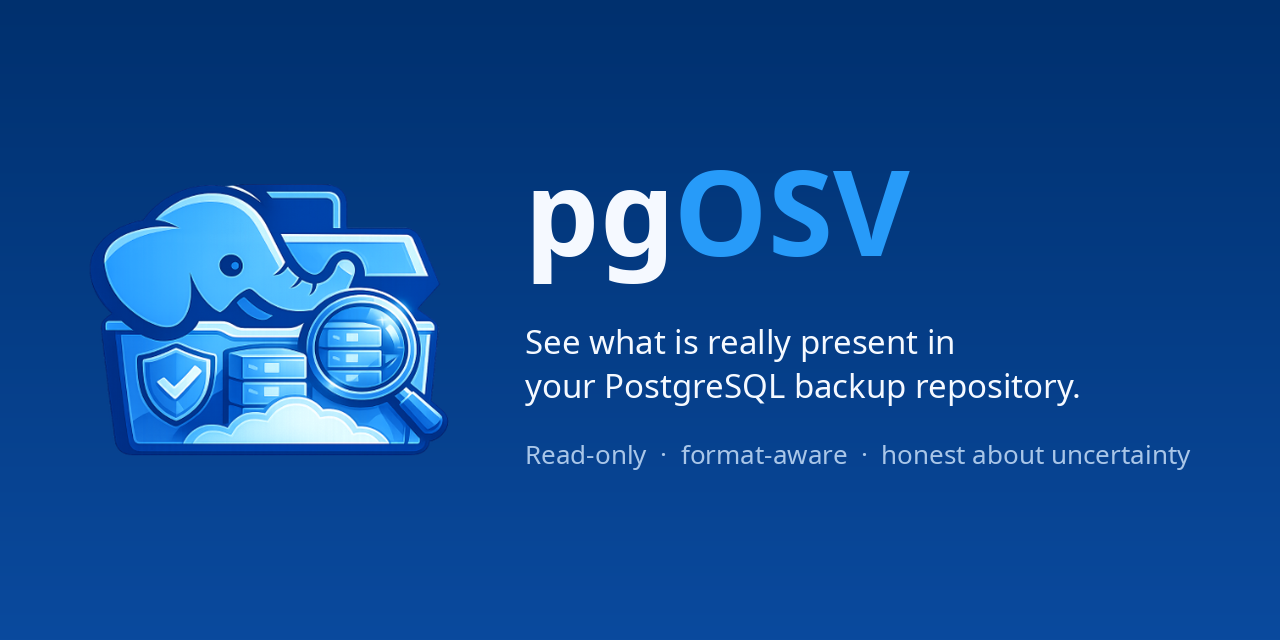
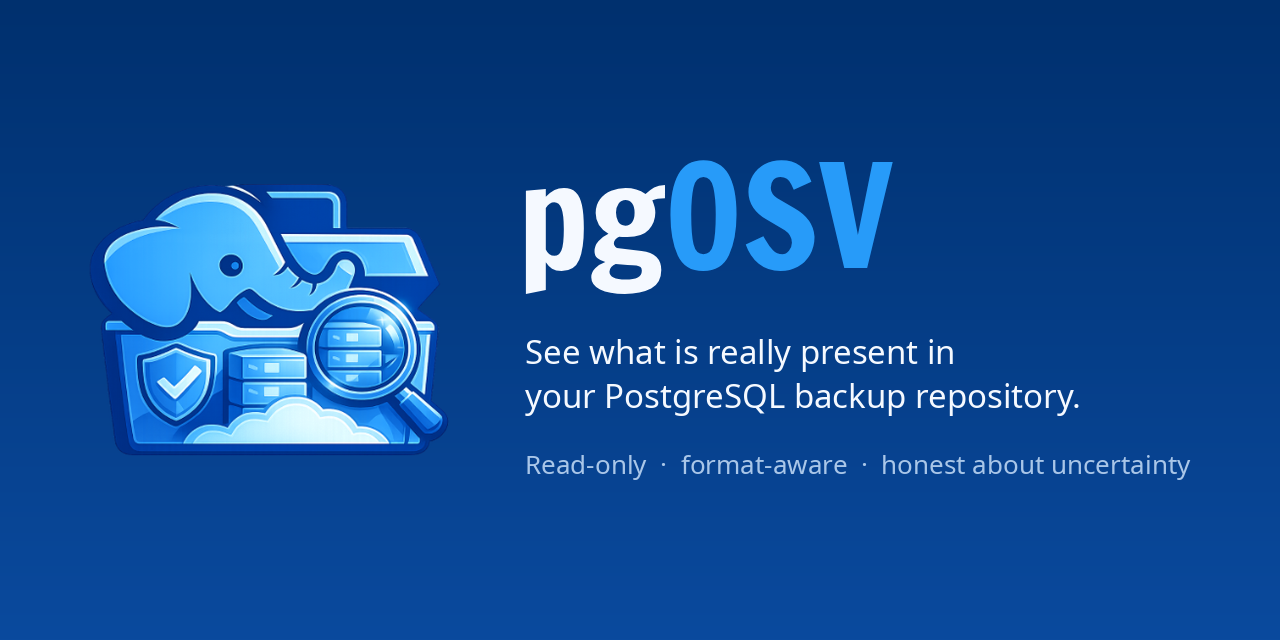
build: generate the brand assets from a committed source
The assets landed as opaque binaries with their provenance only in a commit
message, so nobody could change the tagline or re-cut the favicon without
redoing the derivation by hand. This vendors the source lockup and the script
that produces every published file from it.

hack/brand/lockup.png is the single source: the mark and the pgOSV wordmark in
one image. Both halves are located by the transparent gutter between them
rather than by hard-coded offsets, so re-exporting the lockup at another size
cannot silently crop the wrong region.

The social card now composites the wordmark artwork itself instead of setting
"pgOSV" in Noto Sans. The logotype is a custom rounded face that no system font
approximates, and the previous card was visibly not the logo. Because #004094
is nearly invisible on the navy field, the "pg" half is remapped to the on-navy
foreground by assigning each pixel to the nearer of the two brand colours,
which preserves both the letterforms and the alpha edges.

Output is deterministic: two consecutive runs are byte-identical, so a clean
worktree after `make generate-brand-assets` is the check that the committed
assets still match their source. That replaces the ad-hoc optipng pass used
when the assets were first cut, which is why the three regenerated files differ
slightly in size here; only Pillow's own optimiser is in the path now.

The tagline and the rule line are named constants at the top of the script, so
[…]

diff --git a/hack/generate-brand-assets.py b/hack/generate-brand-assets.py
@@ -1,0 +1,237 @@
+#!/usr/bin/env python3
+# Copyright 2026 The ObjectStoreViewer Authors
+#
+# Licensed under the Apache License, Version 2.0 (the "License");
+# you may not use this file except in compliance with the License.
+# You may obtain a copy of the License at
+#
+#     http://www.apache.org/licenses/LICENSE-2.0
+#
+# Unless required by applicable law or agreed to in writing, software
+# distributed under the License is distributed on an "AS IS" BASIS,
+# WITHOUT WARRANTIES OR CONDITIONS OF ANY KIND, either express or implied.
+# See the License for the specific language governing permissions and
+# limitations under the License.
+
+"""Regenerate the site's brand assets from the single source lockup.
+
+Every published asset is derived here rather than hand-edited, so the identity
+has exactly one source of truth: hack/brand/lockup.png. Re-running this script
+must reproduce the committed files byte for byte; if it does not, either the
+lockup or this script changed and the diff is the thing to review.
+
+    python3 hack/generate-brand-assets.py        # or: make generate-brand-assets
+
+The lockup is one image: the mark on the left, the pgOSV wordmark on the right,
+separated by a band of fully transparent columns. Both halves are located by
+that gutter rather than by hard-coded pixel offsets, so re-exporting the lockup
+at another size does not silently crop the wrong region.
+"""
+
+import os
+import sys
+
+try:
+    from PIL import Image, ImageDraw, ImageFont
+except ImportError:  # pragma: no cover - dependency guidance, not logic
+    sys.exit("Pillow is required: pip install --user Pillow")
+
+ROOT = os.path.dirname(os.path.dirname(os.path.abspath(__file__)))
+SOURCE = os.path.join(ROOT, "hack", "brand", "lockup.png")
+OUT = os.path.join(ROOT, "web", "static", "img")
+
+# The wordmark supplies the brand's two colours exactly; nothing here is picked
+# by eye. NAVY is the mark's darkest structural blue, used for every field the
+# artwork sits on.
+DEEP = (0, 64, 148)        # #004094, the "pg" half
+BRIGHT = (39, 155, 249)    # #279bf9, the "OSV" half
+NAVY = (0, 48, 110)        # #00306e
+NAVY_FOOT = (10, 74, 158)  # #0a4a9e, the social card's gradient foot
+ON_NAVY = (245, 249, 255)
+MUTED = (169, 198, 232)
+
+TAGLINE = ["See what is really present in", "your PostgreSQL backup repository."]
+RULE = "Read-only  ·  format-aware  ·  honest about uncertainty"
+
+# Only the card's tagline needs a typeface; the wordmark itself is artwork
+# lifted from the lockup, so the logotype is never approximated by a system
+# font. Any of these is fine for the tagline.
+FONT_CANDIDATES = [
+    "/usr/share/fonts/noto/NotoSans-Regular.ttf",
+    "/usr/share/fonts/truetype/noto/NotoSans-Regular.ttf",
+    "/usr/share/fonts/TTF/DejaVuSans.ttf",
+    "/usr/share/fonts/truetype/dejavu/DejaVuSans.ttf",
+    "/usr/share/fonts/liberation/LiberationSans-Regular.ttf",
+    "/usr/share/fonts/truetype/liberation/LiberationSans-Regular.ttf",
+]
+
+
+def font(size):
+    for path in FONT_CANDIDATES:
+        if os.path.exists(path):
+            return ImageFont.truetype(path, size)
+    sys.exit(
+        "no sans-serif font found; install Noto, DejaVu, or Liberation, or add "
+        "the path to FONT_CANDIDATES"
+    )
+
+
+def halves(lockup):
+    """Split the lockup at its widest band of fully transparent columns."""
+    w, h = lockup.size
+    alpha = lockup.getchannel("A")
+    empty = [alpha.crop((x, 0, x + 1, h)).getextrema()[1] == 0 for x in range(w)]
+
+    runs, start = [], None
+    for x, blank in enumerate(empty):
+        if blank and start is None:
+            start = x
+        elif not blank and start is not None:
+            runs.append((start, x))
+            start = None
+    if start is not None:
+        runs.append((start, w))
+
+    # Ignore the margins; the gutter is the widest interior run.
+    interior = [r for r in runs if r[0] > 0 and r[1] < w]
+    if not interior:
+        sys.exit("could not find the gutter between mark and wordmark")
+    gutter = max(interior, key=lambda r: r[1] - r[0])
+
+    mark = lockup.crop((0, 0, gutter[0], h))
+    word = lockup.crop((gutter[1], 0, w, h))
+    return mark.crop(mark.getbbox()), word.crop(word.getbbox())
+
+
+def on_navy(wordmark):
+    """Recolour the wordmark's deep half so it reads on the navy field.
+
+    #004094 is nearly invisible against #00306e, so the "pg" half is remapped
+    to the on-navy foreground while "OSV" keeps its own colour. Assigning each
+    pixel to the nearer of the two brand colours preserves the real letterforms
+    — and the alpha channel, so the edges stay smooth.
+    """
+    out = wordmark.copy()
+    px = out.load()
+    for y in range(out.height):
+        for x in range(out.width):
+            r, g, b, a = px[x, y]
+            if a == 0:
+                continue
+            to_deep = (r - DEEP[0]) ** 2 + (g - DEEP[1]) ** 2 + (b - DEEP[2]) ** 2
+            to_bright = (
+                (r - BRIGHT[0]) ** 2 + (g - BRIGHT[1]) ** 2 + (b - BRIGHT[2]) ** 2
+            )
+            px[x, y] = (ON_NAVY if to_deep <= to_bright else BRIGHT) + (a,)
+    return out
+
+
+def rounded_navy(side, radius_ratio=0.22):
+    tile = Image.new("RGBA", (side, side), (0, 0, 0, 0))
+    ImageDraw.Draw(tile).rounded_rectangle(
+        [(0, 0), (side - 1, side - 1)],
+        radius=int(side * radius_ratio),
+        fill=NAVY + (255,),
+    )
+    return tile
+
+
+def navy_tile(side, art, scale):
+    """The navy field with `art` centred on it, occupying `scale` of the side."""
+    tile = rounded_navy(side)
+    inner = art.copy()
+    inner.thumbnail((int(side * scale), int(side * scale)), Image.LANCZOS)
+    tile.paste(inner, ((side - inner.width) // 2, (side - inner.height) // 2), inner)
+    return tile
+
+
+def write_logo(mark):
+    mark.save(os.path.join(OUT, "logo.png"), optimize=True)
+
+
+def write_favicon(mark):
+    """The mark is a detailed illustration and turns into an unreadable wash at
+    16px, so the small sizes carry the elephant head alone. Every size sits on
+    the navy field: a mark this light disappears against a white tab strip."""
+    head = mark.crop((0, 0, int(mark.width * 0.71), int(mark.height * 0.63)))
+    frames = []
+    for side in (16, 32, 48, 64, 128):
+        art, scale = (head, 0.86) if side <= 32 else (mark, 0.82)
+        # Compose at 8x and downsample so the rounded corners stay clean.
+        frames.append(navy_tile(side * 8, art, scale).resize((side, side), Image.LANCZOS))
+    frames[-1].save(
+        os.path.join(OUT, "favicon.ico"),
+        sizes=[f.size for f in frames],
+        append_images=frames,
+    )
+
+
+def write_apple_touch_icon(mark):
+    # iOS composites the icon on black, so it needs a real field of its own.
+    navy_tile(720, mark, 0.78).resize((180, 180), Image.LANCZOS).save(
+        os.path.join(OUT, "apple-touch-icon.png"), optimize=True
+    )
+
+
+def write_social_card(mark, wordmark):
+    W, H = 1280, 640
+    card = Image.new("RGB", (W, H), NAVY)
+    draw = ImageDraw.Draw(card)
+    for y in range(H):
+        t = y / (H - 1)
+        draw.line(
+            [(0, y), (W, y)],
+            fill=tuple(int(NAVY[i] + (NAVY_FOOT[i] - NAVY[i]) * t) for i in range(3)),
+        )
+
+    art = mark.copy()
+    art.thumbnail((360, 360), Image.LANCZOS)
+
+    word = on_navy(wordmark)
+    word.thumbnail((430, 430), Image.LANCZOS)
+
+    tag, rule = font(33), font(26)
+    lead, gap_word, gap_rule = 44, 34, 30
+    block_h = word.height + gap_word + lead * len(TAGLINE) + gap_rule + 34
+    text_w = max(
+        word.width,
+        max(draw.textlength(s, font=tag) for s in TAGLINE),
+        draw.textlength(RULE, font=rule),
+    )
+
+    # Lay mark and copy out as one group, then centre the group: centring each
+    # against the canvas independently leaves the pair visually off-axis.
+    gutter = 76
+    left = int((W - (art.width + gutter + text_w)) / 2)
+    card.paste(art, (left, (H - art.height) // 2), art)
+
+    x = left + art.width + gutter
+    y = int((H - block_h) / 2)
+    card.paste(word, (x, y), word)
+
+    y += word.height + gap_word
+    for line in TAGLINE:
+        draw.text((x, y), line, font=tag, fill=ON_NAVY)
+        y += lead
+    draw.text((x, y + gap_rule), RULE, font=rule, fill=MUTED)
+
+    card.save(os.path.join(OUT, "social-card.png"), optimize=True)
+
+
+def main():
+    lockup = Image.open(SOURCE).convert("RGBA")
+    mark, wordmark = halves(lockup)
+    print(f"mark {mark.size}  wordmark {wordmark.size}")
+
+    write_logo(mark)
+    write_favicon(mark)
+    write_apple_touch_icon(mark)
+    write_social_card(mark, wordmark)
+
+    for name in ("logo.png", "favicon.ico", "apple-touch-icon.png", "social-card.png"):
+        path = os.path.join(OUT, name)
+        print(f"  {name:22} {os.path.getsize(path):>7} bytes")
+
+
+if __name__ == "__main__":
+    main()

diff --git a/web/docs/development.md b/web/docs/development.md
@@ -69,6 +69,20 @@ make check-api         # fails on committed drift
 
 Commit regenerated files with the change that caused them.
 
+If you touched the brand — the logo, the favicon, the touch icon, or the social
+card's tagline:
+
+```bash
+make generate-brand-assets   # rebuild every asset from hack/brand/lockup.png
+```
+
+`hack/brand/lockup.png` is the single source: the mark and the pgOSV wordmark in
+one image, split at the transparent gutter between them. Never hand-edit a file
+under `web/static/img/` — change the lockup or the generator and re-run. Output
+is deterministic, so a clean `git status` after running the target is the check
+that the committed assets still match their source. The social card's copy lives
+in `TAGLINE` and `RULE` at the top of the script.
+
 ## Definition of done
 
 A change is done when all of the applicable items hold. This is the checklist
